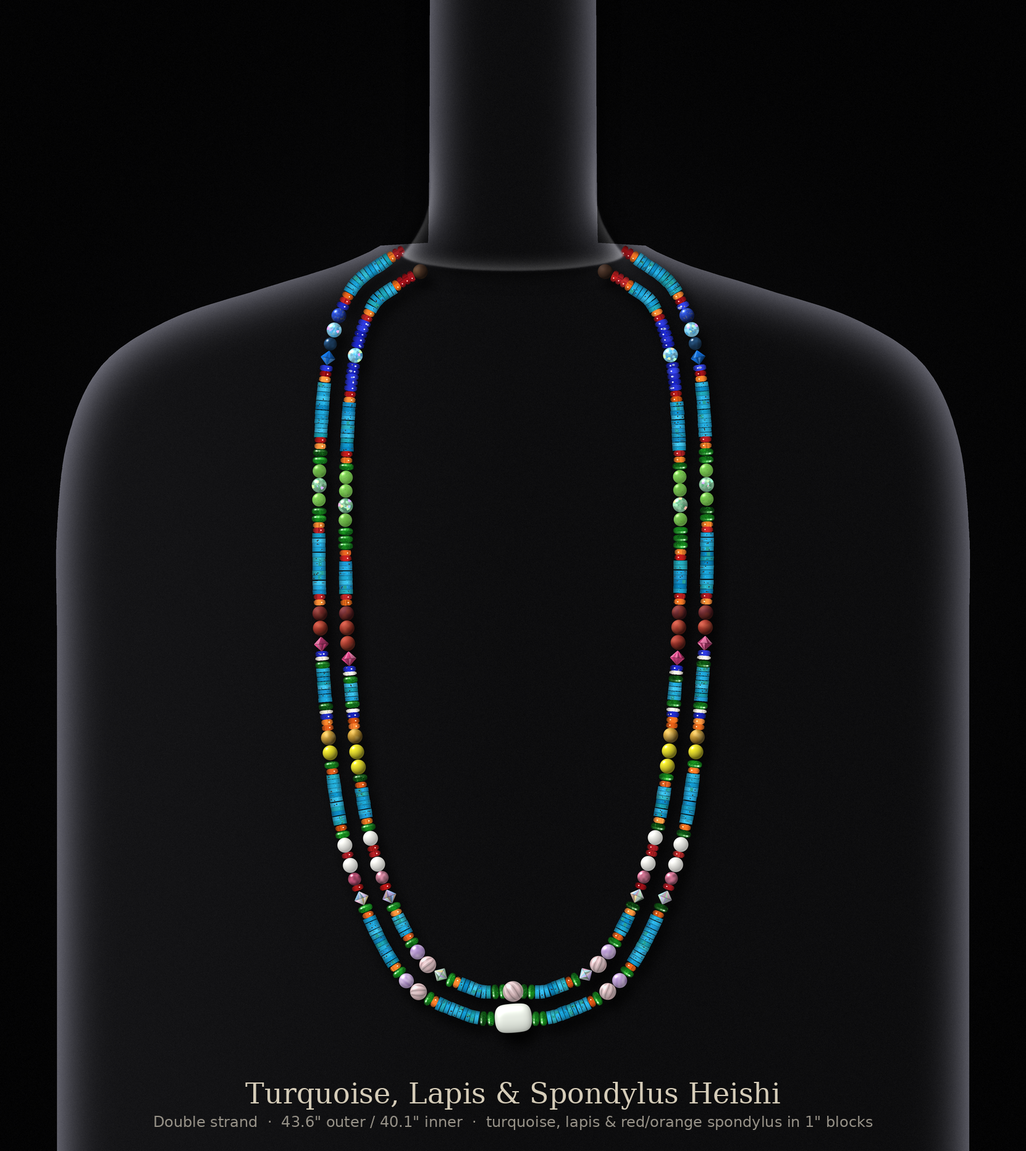
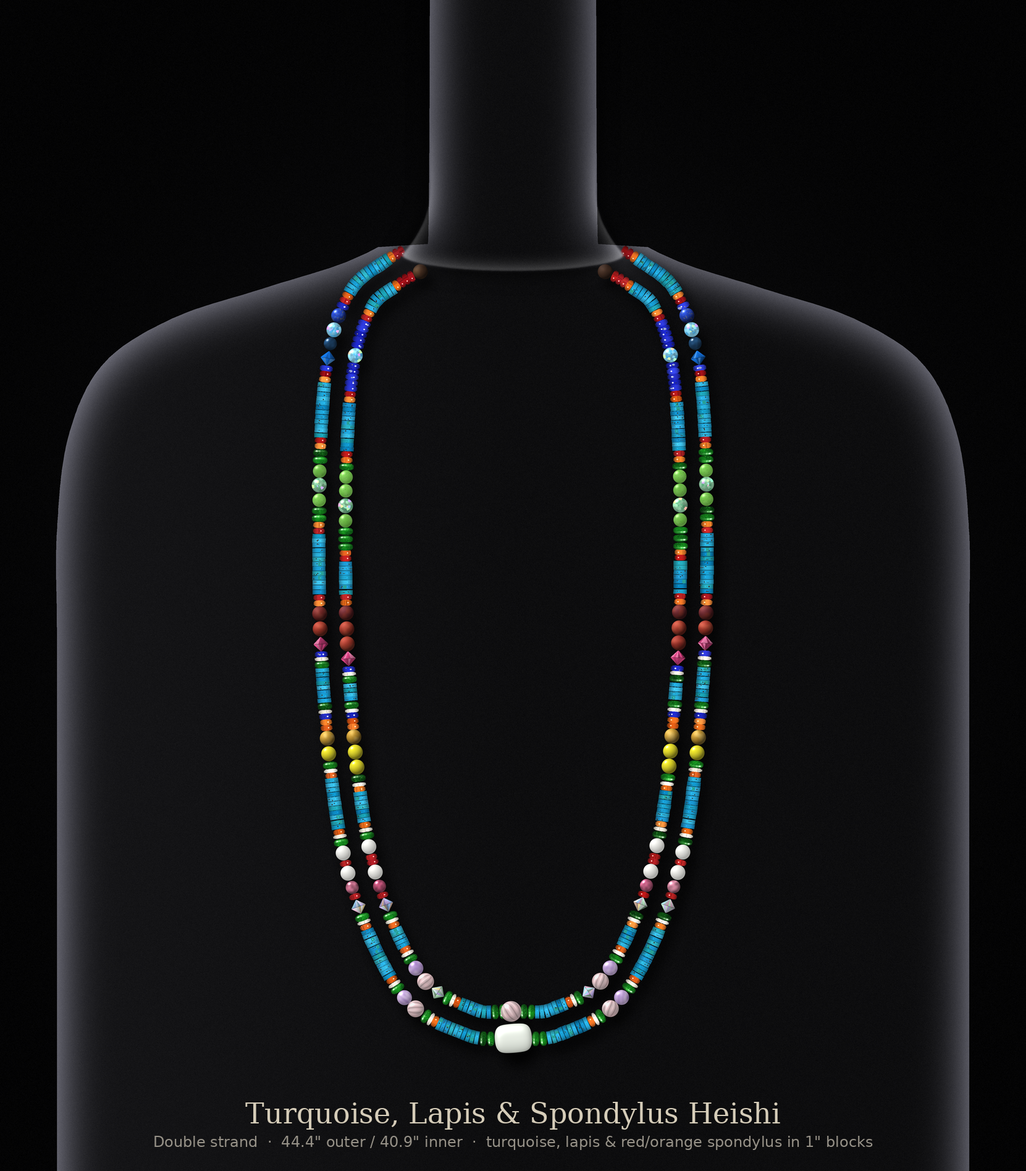
Version 5: white conch between every lower orange/green border; necklace lengthened to 44.4"
Claude-Session: https://claude.ai/code/session_014be1vF4Rdf8sv9Si75Gudv

diff --git a/necklace/render_necklace.py b/necklace/render_necklace.py
@@ -18,7 +18,8 @@ V5_EXT = 3.0 + 3 * 2.4 if V5 else 0.0   # v5: orange under the blue band + 3 mor
 V5_EXT2 = 3.0 if V5 else 0.0             # v5: bottom band's lowest red glass becomes red + orange spiny oyster (+3 mm per side)
 V5_EXT3 = 0.0                            # (red above the bicone removed again)             # v5: red spiny oyster above each mookaite-band rose bicone (+3 mm per side)
 V5_EXT4 = 7.0 if V5 else 0.0             # v5: a pink tourmaline moves from the outer to the inner bottom band (+7 mm per side)
-C_OUT, GAP, BEAD_D = 42 * INCH + 2 * (V5_EXT + V5_EXT2 + V5_EXT3 + V5_EXT4), (11.2 if EXTRAS else (14.0 if V2 else 10.0)), 7.0   # v2: room for 18 mm naga conch
+V5_EXT5 = 5 * 2.0 if V5 else 0.0         # v5: white conch at the 5 lower orange/green borders per strand side (+10 mm per side)
+C_OUT, GAP, BEAD_D = 42 * INCH + 2 * (V5_EXT + V5_EXT2 + V5_EXT3 + V5_EXT4 + V5_EXT5), (11.2 if EXTRAS else (14.0 if V2 else 10.0)), 7.0   # v2: room for 18 mm naga conch
 C_IN = C_OUT - 2 * math.pi * GAP    # inner strand: 8 mm smaller radius -> ~38"
 NSEG, BPS = 42, 16                  # 1 inch blocks, ~16 heishi (1.6 mm) per block
 
@@ -1096,6 +1097,7 @@ if V4:
             seq = list(seq); assert seq[-4:] == ["yellow", "lapisH", "red", "diop"], seq
             seq[-3:] = ["diop", "orange"]; return seq   # lapis under the green removed; orange (was red) touches the green
         BANDS[3] = tuple(_diop_up(b) for b in BANDS[3])
+        BANDS[3] = tuple(list(b[:-1]) + ["conch", "orange"] for b in BANDS[3])   # white conch between the green and orange under the yellow
         # below the yellow (rose band top and bottom, bottom band top): green against the round beads,
         # lapis -> orange spiny oyster against the turquoise
         def _go_start(seq):
@@ -1210,13 +1212,13 @@ if V4:
             gaps = [f / 2] + [f] * len(STN)
             if V5:
                 # align band centres by height: use common fractions computed from the widest of each band pair
-                Hin = (s_in[-1] + HIDDEN_IN) / 2 - SZ[CENTRE[1]] / 2 - V5_EXT - V5_EXT2 - V5_EXT3 - V5_EXT4   # layout at the old length
+                Hin = (s_in[-1] + HIDDEN_IN) / 2 - SZ[CENTRE[1]] / 2 - V5_EXT - V5_EXT2 - V5_EXT3 - V5_EXT4 - V5_EXT5   # layout at the old length
                 Wmax = [max(sum(SZ[k] for k in b[0]), sum(SZ[k] for k in b[1])) for b in BANDS]
                 gapc = (Hin - sum(Wmax)) / (len(BANDS) + 0.5)
                 cen, acc = [], gapc / 2
                 for w in Wmax:
                     cen.append((acc + w / 2) / Hin); acc += w + gapc
-                Hs = H2 - cz - V5_EXT - V5_EXT2 - V5_EXT3 - V5_EXT4                # layout at the old length; the extension goes in below the blue band
+                Hs = H2 - cz - V5_EXT - V5_EXT2 - V5_EXT3 - V5_EXT4 - V5_EXT5                # layout at the old length; the extension goes in below the blue band
                 # turquoise gaps come from the unframed layout; the extra frame width is taken from the top section
                 Wmax0 = [max(sum(SZ[k] for k in b[0]), sum(SZ[k] for k in b[1])) for b in BANDS_PREV]
                 gapc0 = (Hin - sum(Wmax0)) / (len(BANDS_PREV) + 0.5)
@@ -1262,6 +1264,7 @@ if V4:
                     widths[6] += SZ["orange"]       # inner yellow band lost an orange: laid out as before
                 widths[5] -= SZ["conch"]            # white conch under the rose bicone: taken from the turquoise below
                 widths[6] -= SZ["conch"]            # white conch at the top of the yellow: same run
+                widths[6] -= SZ["conch"]            # white conch at the bottom of the yellow: from the run below
                 if st == 0:
                     widths[5] += SZ["mookorg"]      # outer mookaite band lost a round: laid out as before
                 if st == 0:
@@ -1345,6 +1348,7 @@ if V4:
                 gaps[6] -= SZ["conch"]
                 widths[6] += SZ["conch"]
                 gaps[6] -= SZ["conch"]
+                widths[6] += SZ["conch"]                # (bottom-of-yellow conch: necklace lengthened instead)
                 if st == 1:
                     widths[6] -= SZ["orange"]
                     gaps[6] += SZ["orange"]             # yellow rounds stay put; more turquoise in the run above
@@ -1427,6 +1431,10 @@ if V4:
                 _wh[-4] = "red"                              # red (not orange) between the tourmaline and the AB bicone
                 if len(_iw) == 1:                          # outer: add the 8 mm white after the red under the 10 mm
                     assert _wh[_iw[0] + 1] == "red"; _wh.insert(_iw[0] + 2, "opal8")
+                def _cw(seq):                              # white conch between every orange/green border pair
+                    seq = list(seq)
+                    assert seq[:2] == ["orange", "diop"] and seq[-2:] == ["diop", "orange"], seq
+                    return ["orange", "conch"] + seq[1:-1] + ["conch", "orange"]
                 STN[7], STN[8] = _wh, list(STN[7])
                 _n7 = sum(SZ[k] for k in STN[7]); _n8 = sum(SZ[k] for k in STN[8])
                 _ns7 = _c7 - _n7 / 2; _ns8 = _c8 - _n8 / 2
@@ -1435,6 +1443,7 @@ if V4:
                 # the white and rose quartz sections move down, taking it from the run at the centre bottom
                 _tgt = sum(gaps[i] for i in (3, 4, 5, 6, 8)) / 5
                 _d = _tgt - gaps[7]; gaps[7] += _d; gaps[9] -= _d
+                STN[7], STN[8] = _cw(STN[7]), _cw(STN[8])   # whites added: necklace lengthened, turquoise runs unchanged
                 print(f"v5 strand {st} swapped 7/8 gaps", [round(float(x), 1) for x in gaps])
             g = 0.0
             lap = LAP_BUDGET[st]
